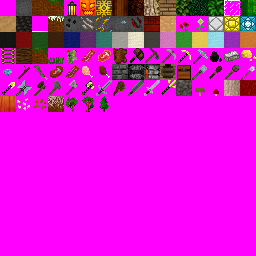
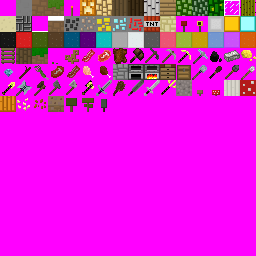
Changed texture pack to cross between MaxPack and Scary Sauce MaxPack does not have tools or food

diff --git a/source/titlescreen.cpp b/source/titlescreen.cpp
@@ -150,12 +150,14 @@ void creditsScreen()
 	drawBackground();
 	Button back(25, 19, "Back");
 	drawBox(4, 7, 24, 11);
-	printXY(12, 9, "Coded by");
-	printXY(6, 10, "CoolAs, Ray, Dirbaio,");
-	printXY(10, 11, "and Wolfgange");
-	printXY(8, 13, "Texture Pack from");
-	printXY(9, 14, "Scary Sauce Pack");
-	printXY(8, 15, "by cool_story_bro");
+	printXY(7, 8, "--- Programming ---");
+	printXY(6, 9, "CoolAs, Ray, Dirbaio,");
+	printXY(10, 10, "and Wolfgange");
+	printXY(6, 12, "--- Texture Packs ---");
+	printXY(9, 13, "MaxPack by Maxim");
+	printXY(15, 14, "And");
+	printXY(9, 15, "Scary Sauce Pack");
+	printXY(8, 16, "by cool_story_bro");
 	scanKeys();
 	bool chosen = false;
 	while (!chosen)
